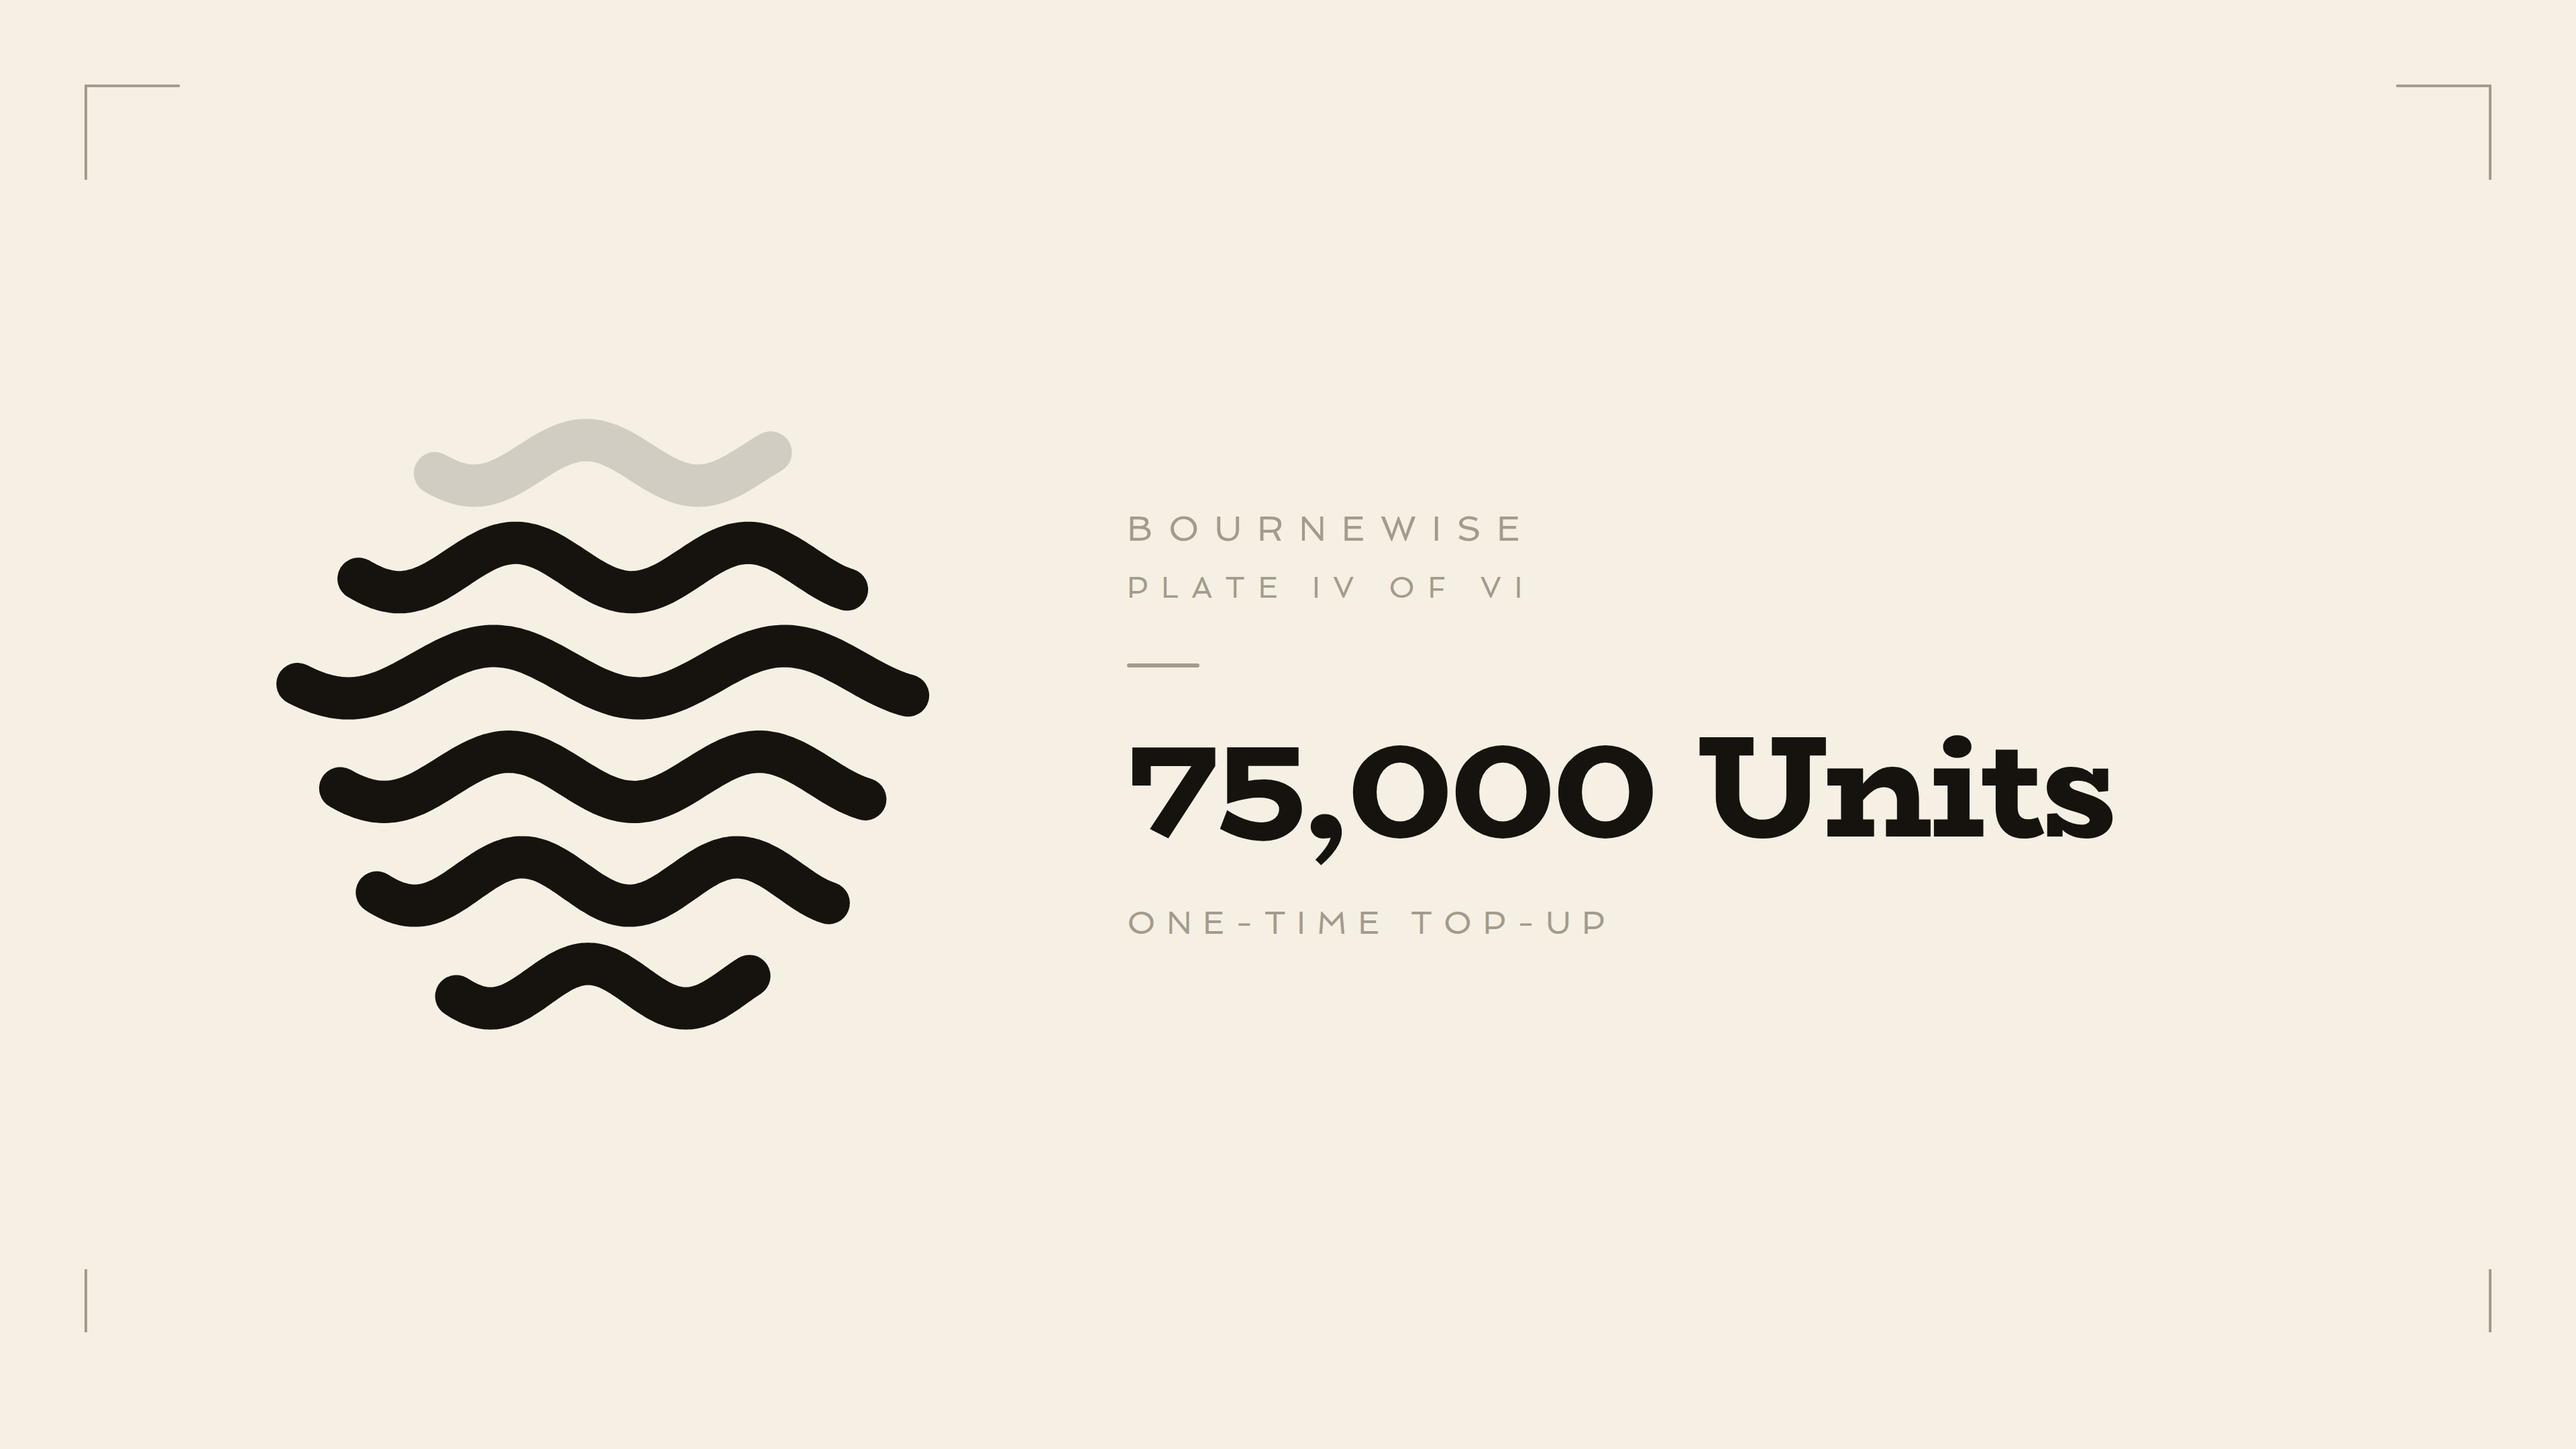
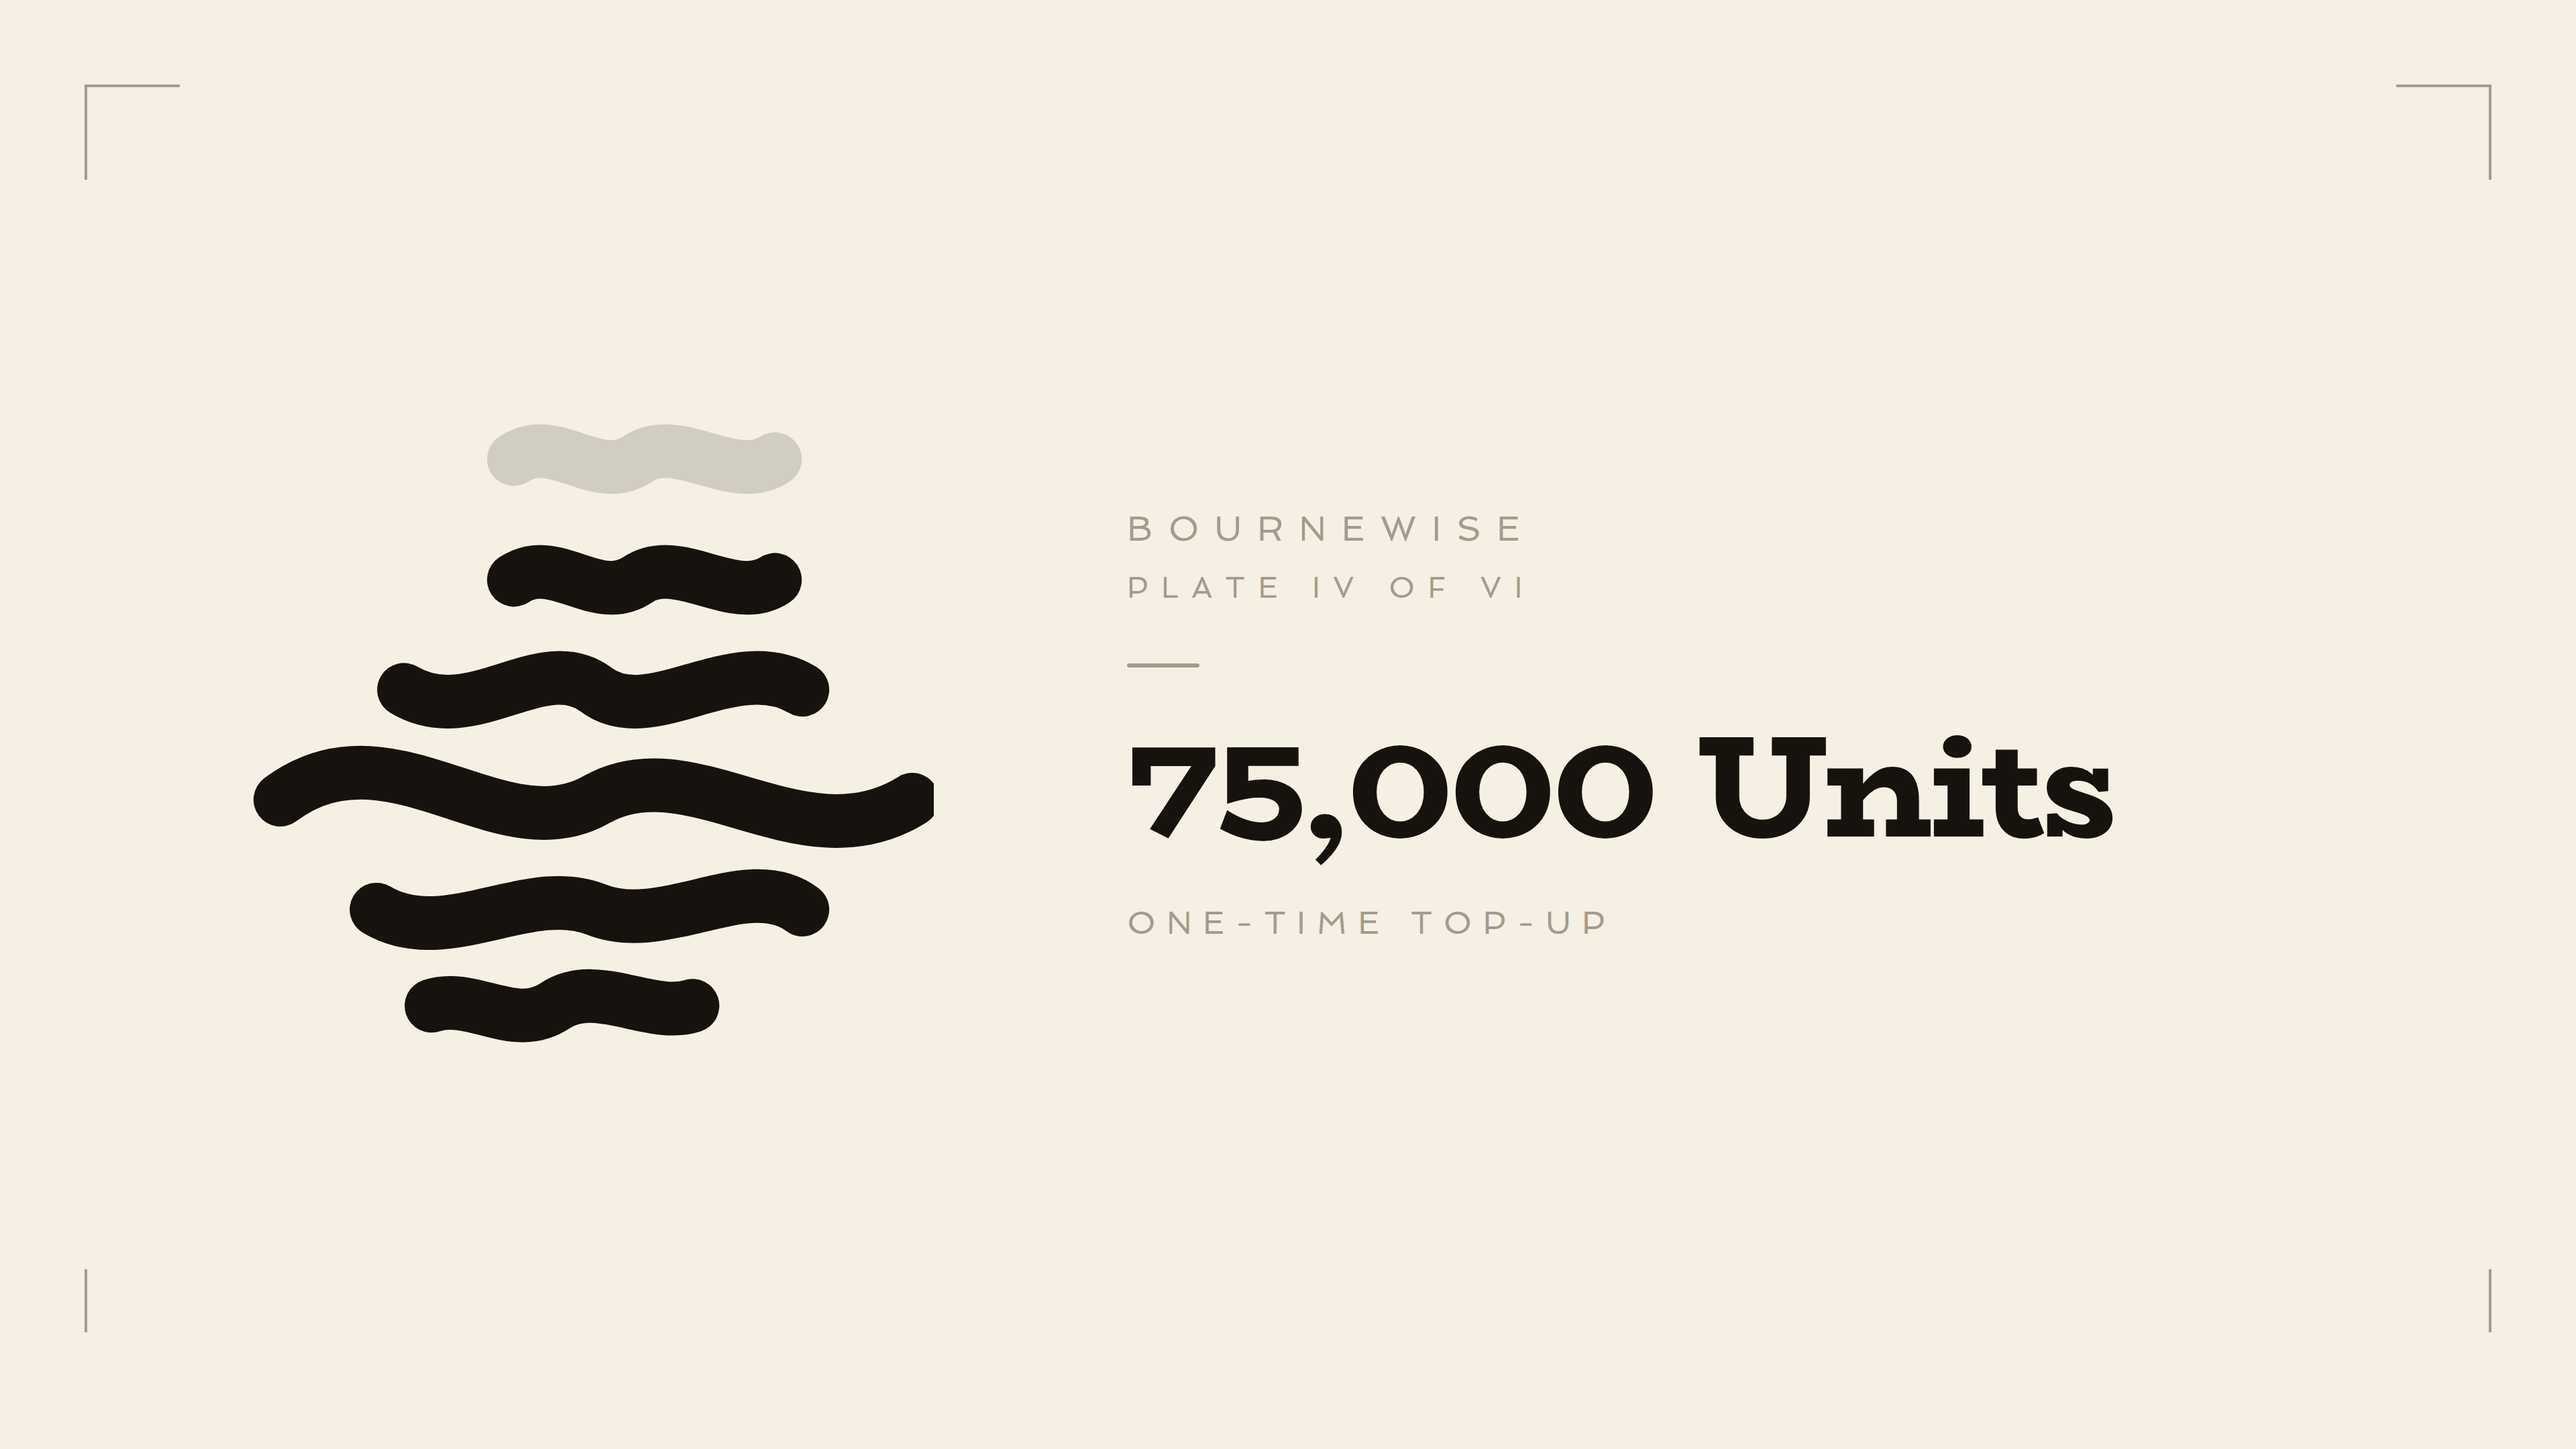
Creem plates: use the exact BourneWise trademark wave paths
The five bars are the registered logomark, not an approximation. Reproduce
the mark's verbatim path data (from index.html, viewBox 0 0 512 416,
stroke-width 40, round caps) and only recolour bars to signal fill level;
the 75,000 top-up keeps its muted overflow wave above the whole mark.

Claude-Session: https://claude.ai/code/session_015LperVyanhd9h3SrJme2du

Changed region(s): [[0.0938, 0.2792, 0.375, 0.7444]]

diff --git a/assets/creem/build.js b/assets/creem/build.js
@@ -24,32 +24,33 @@ const bio800 = b64('BioRhyme-800.woff2');
 const bio700 = b64('BioRhyme-700.woff2');
 const spin = b64('Spinnaker-400.woff2');
 
-// ---- smooth thick sine wave, round caps ----
-function wave(cx, cy, halfW, amp, humps) {
-  const steps = 120, x0 = cx - halfW, x1 = cx + halfW;
-  let d = '';
-  for (let i = 0; i <= steps; i++) {
-    const t = i / steps;
-    const x = x0 + (x1 - x0) * t;
-    const y = cy + amp * Math.sin(t * Math.PI * 2 * humps + Math.PI * 0.15);
-    d += (i === 0 ? 'M' : 'L') + x.toFixed(1) + ' ' + y.toFixed(1) + ' ';
-  }
-  return d;
-}
+// ---- the BourneWise trademark: the exact five wave paths from the logomark
+// (index.html · viewBox 0 0 512 416, g translate(240,1380), stroke-width 40,
+// round caps). Top → bottom. These are the registered mark and are reproduced
+// verbatim; only their stroke colour changes to signal a plan's fill level. ----
+const MARK_PATHS = [
+  'M-40.96-1327.31c30.72-20.48,61.44,20.48,92.16,0,30.72-20.48,71.68,20.48,102.4,0',
+  'M-122.88-1245.39c51.2,30.72,102.4-30.72,143.36,0,40.96,30.72,102.4-30.72,153.6,0',
+  'M-215.04-1163.47c81.92-61.44,163.84,40.96,235.52,0,71.68-40.96,153.6,51.2,235.52,0',
+  'M-143.36-1081.55c51.2,30.72,112.64-20.48,163.84,0,51.2,20.48,112.64-30.72,153.6,0',
+  'M-102.4-1009.87c30.72-10.24,61.44,20.48,92.16,0s71.68,10.24,102.4,0',
+];
+// A one-off "overflow" wave that sits above the mark (75,000 top-up only):
+// the top path shifted up one band, kept muted so the mark itself stays whole.
+const OVERFLOW_PATH = 'M-40.96-1417.31c30.72-20.48,61.44,20.48,92.16,0,30.72-20.48,71.68,20.48,102.4,0';
 
-// ---- the stacked-wave glyph: a circular silhouette used as a fill gauge ----
-function glyph(bars, { ink, grey, sw }) {
-  const boxW = 560, cx = 290, top = 70, stackH = 420, maxHalf = 245;
-  const gap = stackH / (bars.length - 1);
-  let out = `<svg viewBox="0 0 ${boxW} 560" width="560" height="560" xmlns="http://www.w3.org/2000/svg">`;
-  bars.forEach((b, i) => {
-    const cy = top + gap * i;
-    const halfW = maxHalf * b.w;
-    const amp = 15 + 6 * b.w;
-    const humps = halfW > 150 ? 2.1 : 1.5;
-    out += `<path d="${wave(cx, cy, halfW, amp, humps)}" fill="none" stroke="${b.filled ? ink : grey}" stroke-width="${sw}" stroke-linecap="round" stroke-linejoin="round"/>`;
+// bars: array of 5 colours (top→bottom). overflow: colour for the extra wave,
+// or null. Width is pinned to 512 (viewBox width) so bar thickness is identical
+// across every plate; only the viewBox height/offset changes.
+function glyph(bars, overflow) {
+  const vb = overflow ? '0 -95 512 511' : '0 0 512 416';
+  let out = `<svg viewBox="${vb}" width="512" xmlns="http://www.w3.org/2000/svg" `
+    + `fill="none" stroke-linecap="round"><g transform="translate(240,1380)">`;
+  if (overflow) out += `<path style="stroke-width:40px" stroke="${overflow}" d="${OVERFLOW_PATH}"/>`;
+  MARK_PATHS.forEach((d, i) => {
+    out += `<path style="stroke-width:40px" stroke="${bars[i]}" d="${d}"/>`;
   });
-  return out + '</svg>';
+  return out + '</g></svg>';
 }
 
 function frame(stroke) {
@@ -60,17 +61,18 @@ function frame(stroke) {
 }
 
 const CREAM = '#F5F0E3', INK = '#16130F', GREY = '#D2CDC2', DARK = '#16130F', CREAMINK = '#F3EEE1';
-const W5 = [0.60, 0.86, 1.0, 0.84, 0.55];      // 5-bar circular silhouette
-const W6 = [0.55, 0.80, 1.0, 0.86, 0.74, 0.48]; // 6-bar (overflow) silhouette
-const bars5 = filledFromBottom => W5.map((w, i) => ({ w, filled: i >= 5 - filledFromBottom }));
+
+// Colour the five trademark bars top→bottom; the gauge fills from the bottom.
+// filledFromBottom = how many of the five are inked (the rest stay muted grey).
+const fill = (n, ink, grey) => [0, 1, 2, 3, 4].map(i => (i >= 5 - n ? ink : grey));
 
 // Plates track the Creem products: three one-time top-ups + two monthly plans.
 const plates = [
-  { file: 'plate-II-15000', roman: 'II', bg: CREAM, ink: INK, grey: GREY, title: '15,000 Units', sub: 'ONE-TIME TOP-UP', bars: bars5(2) },
-  { file: 'plate-III-30000', roman: 'III', bg: CREAM, ink: INK, grey: GREY, title: '30,000 Units', sub: 'ONE-TIME TOP-UP', bars: bars5(3) },
-  { file: 'plate-IV-75000', roman: 'IV', bg: CREAM, ink: INK, grey: GREY, title: '75,000 Units', sub: 'ONE-TIME TOP-UP', bars: W6.map((w, i) => ({ w, filled: i >= 1 })) },
-  { file: 'plate-V-pro', roman: 'V', bg: CREAM, ink: INK, grey: GREY, title: 'Pro', sub: '22,500 UNITS · MONTHLY', bars: W5.map(w => ({ w, filled: true })) },
-  { file: 'plate-VI-premium', roman: 'VI', bg: DARK, ink: CREAMINK, grey: '#3A342B', title: 'Premium', sub: '45,000 UNITS · MONTHLY', bars: W5.map(w => ({ w, filled: true })) },
+  { file: 'plate-II-15000', roman: 'II', bg: CREAM, ink: INK, title: '15,000 Units', sub: 'ONE-TIME TOP-UP', bars: fill(2, INK, GREY) },
+  { file: 'plate-III-30000', roman: 'III', bg: CREAM, ink: INK, title: '30,000 Units', sub: 'ONE-TIME TOP-UP', bars: fill(3, INK, GREY) },
+  { file: 'plate-IV-75000', roman: 'IV', bg: CREAM, ink: INK, title: '75,000 Units', sub: 'ONE-TIME TOP-UP', bars: fill(5, INK, GREY), overflow: GREY },
+  { file: 'plate-V-pro', roman: 'V', bg: CREAM, ink: INK, title: 'Pro', sub: '22,500 UNITS · MONTHLY', bars: fill(5, INK, GREY) },
+  { file: 'plate-VI-premium', roman: 'VI', bg: DARK, ink: CREAMINK, title: 'Premium', sub: '45,000 UNITS · MONTHLY', bars: fill(5, CREAMINK, CREAMINK) },
 ];
 
 const css = `
@@ -83,7 +85,7 @@ html,body{width:1920px;height:1080px;overflow:hidden}
 .frame{position:absolute;inset:0;width:1920px;height:1080px}
 .row{position:absolute;inset:0;display:flex;align-items:center}
 .gcol{width:820px;display:flex;align-items:center;justify-content:center;padding-left:60px}
-.gcol svg{width:520px;height:520px}
+.gcol svg{width:512px;height:auto}
 .tcol{flex:1;padding-right:150px;padding-left:20px}
 .ey{font-family:'Spinnaker';font-size:26px;letter-spacing:.44em;text-transform:uppercase}
 .ey2{font-family:'Spinnaker';font-size:22px;letter-spacing:.44em;text-transform:uppercase;margin-top:16px}
@@ -96,7 +98,7 @@ function pageHtml(p) {
   return `<!doctype html><html><head><meta charset="utf-8"><style>${css}
   body{background:${p.bg}}.ey,.ey2,.sub{color:${muted}}.title{color:${p.ink}}.dash{background:${muted}}
   </style></head><body><div class="stage">${frame(muted)}
-  <div class="row"><div class="gcol">${glyph(p.bars, { ink: p.ink, grey: p.grey, sw: 34 })}</div>
+  <div class="row"><div class="gcol">${glyph(p.bars, p.overflow || null)}</div>
   <div class="tcol"><div class="ey">Bournewise</div><div class="ey2">Plate ${p.roman} of VI</div>
   <div class="dash"></div><div class="title">${p.title}</div><div class="sub">${p.sub}</div></div></div>
   </div></body></html>`;
